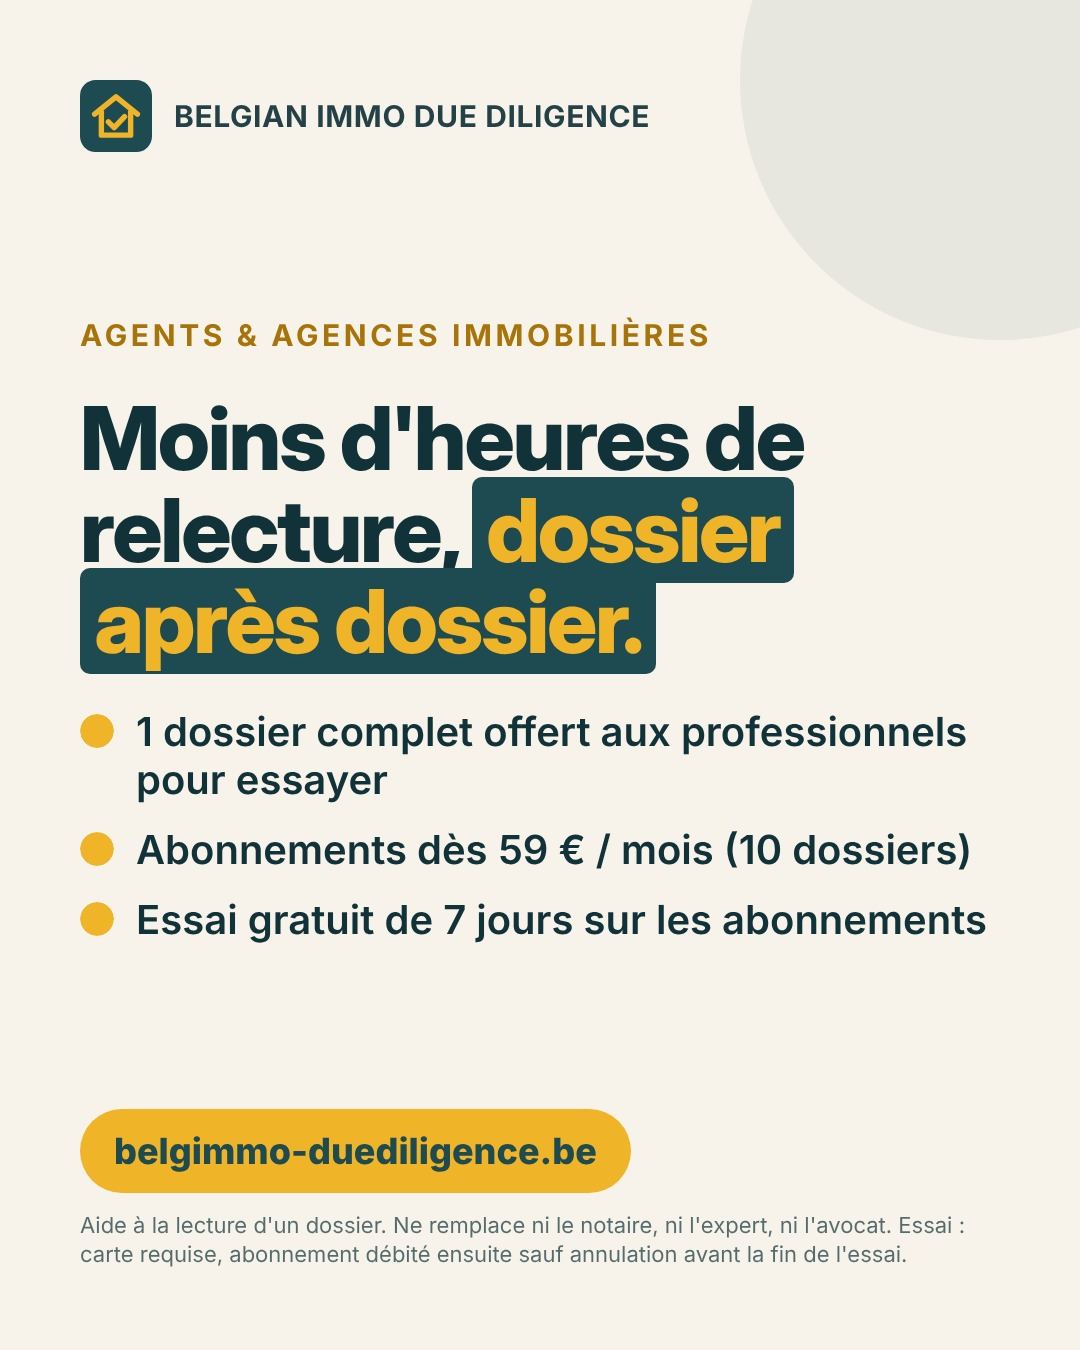
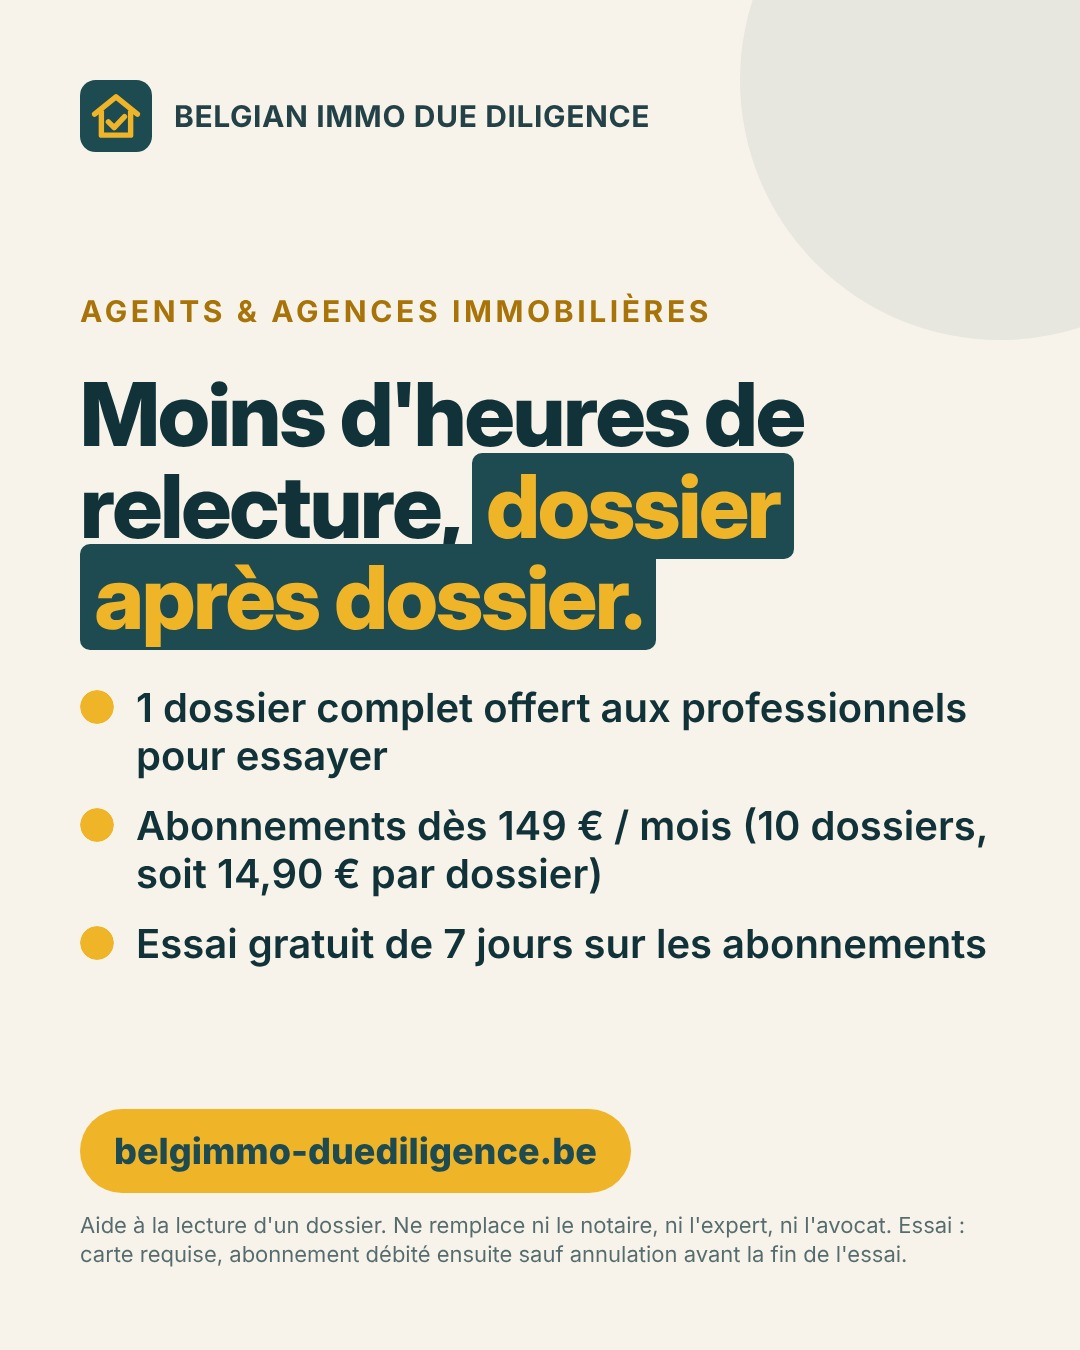
Nouvelle tarification : visuel agents (149 €/mois) et grille de prix dans le plan
Claude-Session: https://claude.ai/code/session_01N1NFwpyNQoNzbbwcSzj1hc

Changed region(s): [[0.0611, 0.2178, 0.9167, 0.7156]]

diff --git a/items-v1.js b/items-v1.js
@@ -30,7 +30,7 @@ module.exports = {
     <ul><li>Liste des documents manquants</li><li>Interface et rapports en FR, NL et EN</li></ul>` }),
   'post-6': page({ dark: false, body: `<div class="kicker">Agents &amp; agences immobilières</div>
     <h1>Moins d'heures de relecture, <em>dossier après dossier.</em></h1>
-    <ul><li>1 dossier complet offert aux professionnels pour essayer</li><li>Abonnements dès 59 € / mois (10 dossiers)</li><li>Essai gratuit de 7 jours sur les abonnements</li></ul>`,
+    <ul><li>1 dossier complet offert aux professionnels pour essayer</li><li>Abonnements dès 149 € / mois (10 dossiers, soit 14,90 € par dossier)</li><li>Essai gratuit de 7 jours sur les abonnements</li></ul>`,
     legal: LEGAL + " Essai : carte requise, abonnement débité ensuite sauf annulation avant la fin de l'essai." }),
 
   'story-1': page({ story: true, body: `<div class="kicker">Tu achètes en Belgique ?</div>

diff --git a/CONTENT-PLAN.md b/CONTENT-PLAN.md
@@ -21,6 +21,14 @@ Créneaux (meilleures heures Metricool) : publications à 09:30, 10:00 ou 12:30 
 6. Ne pas répéter un sujet de publication déjà traité dans les 14 derniers jours (voir le journal ci-dessous).
 7. Varier les formats : carrousel pédagogique, chiffre clé, cas pratique, vrai ou faux en 2 stories, question et réponse, offre ou démo.
 
+## Tarifs en vigueur (relus le 18/11/2026 sur /pricing, TVA comprise)
+
+- Particuliers : 1 dossier 39 € ; pack de 3 à 59 € (19,67 €/dossier) ; pack de 5 à 89 € (17,80 €/dossier). Aperçu gratuit, dossiers sans date d'expiration.
+- Pros : Solo 149 €/mois (10 dossiers, 14,90 €/dossier) ; Pro 299 €/mois (25 dossiers, 11,96 €/dossier) ; Agence 749 €/mois (80 dossiers). -5 % au semestre, -10 % à l'année. Essai gratuit de 7 jours, carte requise, 5 dossiers max pendant l'essai.
+- Dossier supplémentaire au-delà du quota : 19 €. 1 dossier offert à l'inscription pro. Offre de bienvenue : -20 %.
+- Anciens tarifs (59/99/249 €/mois, dossier sup. 5 €) : ne plus les utiliser. Ne pas écrire « le pack de 3 = le prix d'un mois d'abonnement » : ce n'est plus vrai.
+- Toujours relire /pricing avant un post qui cite un prix.
+
 ## Rotation des thèmes
 
 | # | Thème | Source sur le site |
